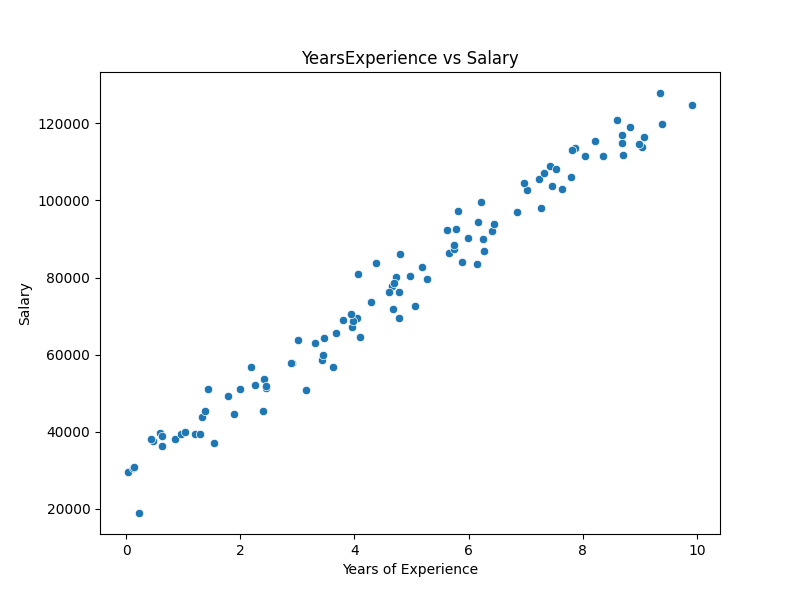
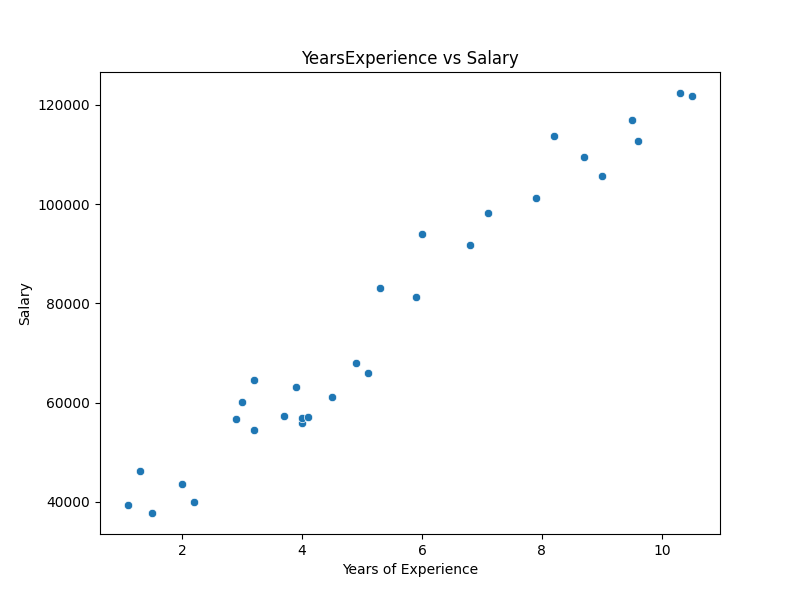
feat: Add Day 2 content for linear regression on salary data, including code, data, images, and README, and update project rules and a template.

diff --git a/day2/Linear_Regression_Salary.py b/day2/Linear_Regression_Salary.py
@@ -22,7 +22,7 @@ from sklearn.metrics import mean_squared_error, r2_score, mean_absolute_error
 # 使用 __file__ 確保檔案路徑相對於腳本位置
 SCRIPT_DIR = os.path.dirname(os.path.abspath(__file__))
 DATA_FILE = os.path.join(SCRIPT_DIR, 'Salary_Data.csv')
-DATA_URL = 'https://raw.githubusercontent.com/ksharry/30-Days-Of-ML/main/day2/Salary_Data.csv'
+DATA_URL = 'https://raw.githubusercontent.com/krishnaik06/Simple-Linear-Regression/master/Salary_Data.csv'
 
 def load_or_download_data(local_path, url):
     """
@@ -32,14 +32,27 @@ def load_or_download_data(local_path, url):
         print(f"找不到檔案：{local_path}，嘗試從網路下載...")
         try:
             import requests
-            response = requests.get(url)
+            response = requests.get(url, verify=False) # 嘗試關閉 verify 避開 SSL 問題
             response.raise_for_status()
             with open(local_path, 'wb') as f:
                 f.write(response.content)
-            print(f"下載成功！已儲存為 {local_path}")
+            print(f"下載成功 (requests)！已儲存為 {local_path}")
         except Exception as e:
-            print(f"下載失敗 (或 requests 模組不可用)：{e}")
-            return None
+            print(f"requests 下載失敗：{e}，嘗試使用 urllib...")
+            try:
+                import urllib.request
+                import ssl
+                # 忽略 SSL 憑證驗證
+                ctx = ssl.create_default_context()
+                ctx.check_hostname = False
+                ctx.verify_mode = ssl.CERT_NONE
+                
+                with urllib.request.urlopen(url, context=ctx) as u, open(local_path, 'wb') as f:
+                    f.write(u.read())
+                print(f"下載成功 (urllib)！已儲存為 {local_path}")
+            except Exception as e2:
+                print(f"urllib 下載也失敗：{e2}")
+                return None
     else:
         print(f"發現本地檔案：{local_path}")
     

diff --git a/template_1.py b/template_1.py
@@ -18,7 +18,6 @@ from sklearn.metrics import mean_squared_error, r2_score, mean_absolute_error
 # 根據 Day 換模型：
 from sklearn.linear_model import LinearRegression 
 # from sklearn.linear_model import Lasso, Ridge (Day 04)
-
 # --- 1. 載入資料 (Data Loading) ---
 # 設定資料集路徑與下載網址 (請依實際需求修改)
 DATA_FILE = 'dataset.csv' 
@@ -31,14 +30,27 @@ def load_or_download_data(local_path, url):
     if not os.path.exists(local_path):
         print(f"找不到檔案：{local_path}，嘗試從網路下載...")
         try:
-            response = requests.get(url)
+            import requests
+            response = requests.get(url, verify=False)
             response.raise_for_status()
             with open(local_path, 'wb') as f:
                 f.write(response.content)
-            print(f"下載成功！已儲存為 {local_path}")
+            print(f"下載成功 (requests)！已儲存為 {local_path}")
         except Exception as e:
-            print(f"下載失敗：{e}")
-            return None
+            print(f"requests 下載失敗：{e}，嘗試使用 urllib...")
+            try:
+                import urllib.request
+                import ssl
+                ctx = ssl.create_default_context()
+                ctx.check_hostname = False
+                ctx.verify_mode = ssl.CERT_NONE
+                
+                with urllib.request.urlopen(url, context=ctx) as u, open(local_path, 'wb') as f:
+                    f.write(u.read())
+                print(f"下載成功 (urllib)！已儲存為 {local_path}")
+            except Exception as e2:
+                print(f"urllib 下載也失敗：{e2}")
+                return None
     else:
         print(f"發現本地檔案：{local_path}")
     

diff --git a/day2/README.md b/day2/README.md
@@ -1,16 +1,24 @@
 # Day 02: 線性回歸 (Linear Regression)
 
-## 0. 核心貢獻者:
-(無)
+## 0. 歷史小故事/核心貢獻者:
+線性回歸最早的數學基礎——**最小平方法 (Least Squares)**，由法國數學家 **勒讓德 (Adrien-Marie Legendre)** 於 1805 年首次發表，不過「數學王子」**高斯 (Carl Friedrich Gauss)** 聲稱他在 1795 年就已經在使用這套方法來計算天體軌道。有趣的是，「回歸 (Regression)」這個詞其實是後來由 **法蘭西斯·高爾頓 (Francis Galton)** 在研究父子身高遺傳關係時提出的；他發現極高或極矮父親的兒子，身高都會傾向於「回歸」到大眾平均值 (Regression to the mean)，這個生物學上的觀察後來與最小平方法結合，演變成了我們今日熟知的線性回歸。
 
 ## 1. 資料集來源
-### 資料集來源：[Salary_Data.csv](https://github.com/ksharry/30-Days-Of-ML/blob/main/day2/Salary_Data.csv)
-### 資料集畫面與欄位介紹:
-這是一個非常簡單的資料集，僅包含兩個欄位：
-*   **YearsExperience**: 工作年資 (X)
-*   **Salary**: 薪水 (y)
+### 資料集來源：[Salary_Data.csv](https://github.com/krishnaik06/Simple-Linear-Regression/blob/master/Salary_Data.csv)
+> 備註：原始資料來自 Kaggle 或機器學習入門教學常見的範例數據，此處使用 GitHub 公開資源作為下載點。
 
-我們想知道，年資每增加一年，薪水會增加多少？這就是最典型的線性回歸問題。
+### 資料集特色與欄位介紹:
+這是一個專為**簡單線性回歸 (Simple Linear Regression)** 設計的入門級資料集，特色如下：
+1.  **極簡潔**：只有兩個欄位，非常適合初學者理解 $X$ 與 $y$ 的關係。
+2.  **強相關性**：年資與薪水之間存在明顯的正相關，模型訓練效果通常很好。
+3.  **無缺失值**：數據乾淨，不需要複雜的清洗步驟。
+4.  **資料量少**：約 30 筆數據，運算速度極快。
+
+**欄位說明**：
+*   **YearsExperience (特徵 X)**: 工作年資 (數值型)。代表員工在該領域的工作年數。
+*   **Salary (目標 y)**: 年薪 (數值型)。代表對應年資的薪資水平。
+
+我們想知道，**年資每增加一年，薪水會增加多少？** 這就是最典型的線性回歸問題。
 
 ![EDA](pic/2-1_EDA.png)
 
@@ -22,10 +30,8 @@
 ## 2. 原理
 ### 核心公式與參數
 線性回歸試圖找到一條直線 $y = ax + b$ 來擬合數據。
-
-**$a$ (Coefficient/Slope)**: 斜率，代表年資對薪水的影響力。
-
-**$b$ (Intercept/Bias)**: 截距，代表起薪 (年資為 0 時的薪水)。
+* **$a$ (Coefficient/Slope)**: 斜率，代表年資對薪水的影響力。
+* **$b$ (Intercept/Bias)**: 截距，代表起薪 (年資為 0 時的薪水)。
 
 **損失函數 (Loss Function)**：
 我們使用 **均方誤差 (MSE, Mean Squared Error)** 來衡量預測值與真實值的差距：
@@ -60,7 +66,7 @@ y_pred = model.predict(X_test_scaled)
 
 ### (回歸與監督式學習適用day2-12)
 引用吳恩達的 Rocket 理論 (Bias vs Variance)：
-![rocket](https://github.com/ksharry/30-Days-Of-ML/blob/main/day2/pic/2-6.jpg?raw=true)
+![rocket](pic/2-4 Rocket.jpg)
 
 #### 5.1 流程一：推力不足，無法升空 (Underfitting 迴圈)
 *   **設定**：使用簡單的線性模型 ($y=ax+b$)。

diff --git a/project_rules.md b/project_rules.md
@@ -46,13 +46,20 @@
 ```markdown
 # Day XX: [標題]
 
-## 0. 核心貢獻者:
-(列出貢獻者，若無則留白或省略)
+## 0. 歷史小故事/核心貢獻者:
+(列出貢獻者或相關歷史故事，若無則留白或省略)
 
 ## 1. 資料集來源
 ### 資料集來源：[名稱](連結)
-### 資料集畫面與欄位介紹:
-![Dataset Preview](https://github.com/ksharry/30-Days-Of-ML/blob/main/day2/pic/2-6.jpg?raw=true) (需確保圖片存在或說明圖片內容)
+> 備註：(選填，如資料來源說明)
+
+### 資料集特色與欄位介紹:
+(列點說明資料集特色，例如：極簡潔、強相關性、無缺失值等)
+
+**欄位說明**：
+*   **Feature Name (特徵 X)**: (說明)
+*   **Target Name (目標 y)**: (說明)
+
 ### 資料清理
 (說明資料清理的步驟)
 
